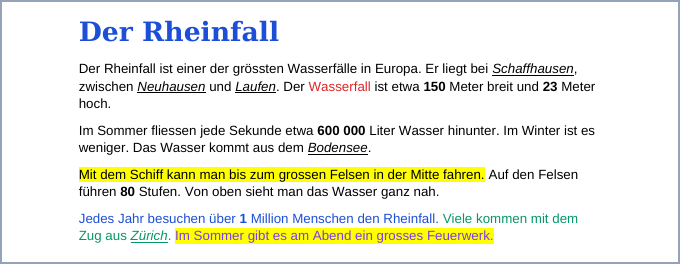
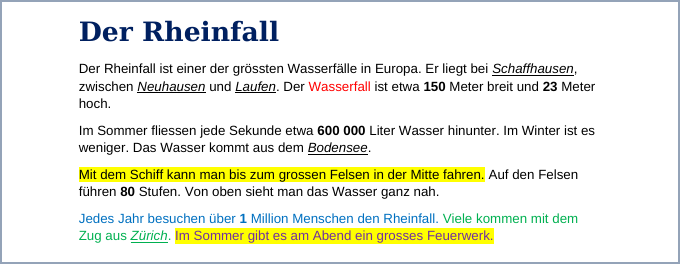
Word-Führerschein: Schriftart und Farben immer genau angegeben
Claude-Session: https://claude.ai/code/session_01DxcwozY8YnNsB45PjCnVcF

diff --git a/Informatik Word-Fuehrerschein.html b/Informatik Word-Fuehrerschein.html
@@ -464,11 +464,11 @@
           help: [DL_HELP, REN_HELP, APP_HELP, ABG_HELP],
           proof: 'In «Aufgabenbearbeitung › MI › Word» liegt «Informatik_Rheinfall». Sie ist in der Word-App offen.' },
         { id: 'w1_m2', st: 3, nr: ['W1.2'], type: 'mission', q: 'Mission W1.2: Titel und Zahlen',
-          steps: ['Titel «Der Rheinfall»: <b>andere Schriftart</b>, Grösse <b>24</b>, <b>fett</b>.', 'Im Text hat es <b>5 Zahlen</b>. Mach alle 5 <b>fett</b> (Doppelklick auf die Zahl, dann F).', 'Hebe den Satz «Mit dem Schiff …» <b>gelb</b> hervor (Textmarker ab).', 'Hebe auch den letzten Satz «Im Sommer gibt es … Feuerwerk.» <b>gelb</b> hervor.', 'Speichere mit <b>Ctrl + S</b>.'],
+          steps: ['Titel «Der Rheinfall»: Schriftart <b>Georgia</b>, Grösse <b>24</b>, <b>fett</b>.', 'Im Text hat es <b>5 Zahlen</b>. Mach alle 5 <b>fett</b> (Doppelklick auf die Zahl, dann F).', 'Hebe den Satz «Mit dem Schiff …» <b>gelb</b> hervor (Textmarker ab).', 'Hebe auch den letzten Satz «Im Sommer gibt es … Feuerwerk.» <b>gelb</b> hervor.', 'Speichere mit <b>Ctrl + S</b>.'],
           help: ['Einen ganzen Satz markieren: Maus vor das erste Wort, gedrückt halten, bis zum Punkt ziehen.', 'Falsch gemacht? Ctrl + Z macht den letzten Schritt rückgängig.', 'Die 5 Zahlen: 150, 23, 600 000, 80, 1.'],
           proof: 'Titel gross und fett, 5 Zahlen fett, 2 Sätze gelb.' },
         { id: 'w1_m3', st: 3, nr: ['W1.3'], type: 'mission', q: 'Mission W1.3: Nochmals, im gleichen Text',
-          steps: ['Im Text hat es <b>5 Ortsnamen</b>: Schaffhausen, Neuhausen, Laufen, Bodensee, Zürich. Mach alle 5 <b>kursiv</b> und <b>unterstrichen</b>.', 'Gib dem Titel eine <b>Farbe</b>.', 'Der letzte Abschnitt beginnt mit «Jedes Jahr …». Gib dort <b>jedem der 3 Sätze</b> eine <b>andere Schriftfarbe</b>.', 'Mach im ersten Abschnitt das Wort «Wasserfall» <b>rot</b>.', ...FERTIG('Rheinfall')],
+          steps: ['Im Text hat es <b>5 Ortsnamen</b>: Schaffhausen, Neuhausen, Laufen, Bodensee, Zürich. Mach alle 5 <b>kursiv</b> und <b>unterstrichen</b>.', 'Gib dem Titel die Farbe <b>Dunkelblau</b>.', 'Der letzte Abschnitt beginnt mit «Jedes Jahr …». Gib dort dem 1. Satz die Farbe <b>Blau</b>, dem 2. <b>Grün</b> und dem 3. <b>Lila</b>.', 'Mach im ersten Abschnitt das Wort «Wasserfall» in der Farbe <b>Rot</b>.', ...FERTIG('Rheinfall')],
           help: [ABG_HELP, 'Vergessen, wie es geht? Tippe auf «📖 Kurz erklärt».', 'Word nicht mehr offen? Teams › Aufgabenbearbeitung › MI › Word › ⋯ › In App öffnen.'],
           proof: 'Orte kursiv und unterstrichen, Titel farbig, letzter Abschnitt bunt, «Wasserfall» rot. Die Datei ist in «Abgabe».' }
       ],
@@ -508,7 +508,7 @@
         { id: 'w2_gap', ex: 'liste', st: 2, nr: ['W2.3'], type: 'gap', text: 'Eine Liste mit 1. 2. 3. heisst ___.',
           a: ['Nummerierung', 'Nummerieren', 'nummerierte Liste'], tip: 'Es kommt von «Nummer».', why: 'Nummerierung.' },
         { id: 'w2_m1', st: 3, nr: ['W2.1'], type: 'mission', q: 'Mission W2.1: Aufwärmen', link: F('W2_Rezept'), linkText: '📥 Keine Mail? Datei hier holen',
-          steps: [...DL('W2_Rezept', 'Rezept'), 'Titel «Schoggikuchen»: <b>andere Schriftart</b>, Grösse <b>26</b>, <b>fett</b>, eine <b>Farbe</b>.', 'Mach «180 Grad», «25 Minuten» und «10 Minuten» <b>fett</b>. Hebe «Achtung, heiss!» <b>gelb</b> hervor. Ctrl + S.'],
+          steps: [...DL('W2_Rezept', 'Rezept'), 'Titel «Schoggikuchen»: Schriftart <b>Comic Sans MS</b>, Grösse <b>26</b>, <b>fett</b>, Farbe <b>Dunkelrot</b>.', 'Mach «180 Grad», «25 Minuten» und «10 Minuten» <b>fett</b>. Hebe «Achtung, heiss!» <b>gelb</b> hervor. Ctrl + S.'],
           help: [DL_HELP, REN_HELP, APP_HELP, AUF_HELP],
           proof: '«Informatik_Rezept» liegt in MI › Word. Titel gestaltet, 3 Stellen fett, eine gelb.' },
         { id: 'w2_m2', st: 3, nr: ['W2.2'], type: 'mission', q: 'Mission W2.2: Ausrichten und Zeilenabstand',
@@ -520,7 +520,7 @@
           help: ['Die Knöpfe für Listen sind im Reiter Start, links oben in der Gruppe «Absatz».', 'Nur die Zeilen markieren, die in die Liste gehören, nicht den Abschnitt darüber.'],
           proof: 'Zutaten und Verzieren mit Punkten, Schritte mit 1. bis 6.' },
         { id: 'w2_m4', st: 3, nr: ['W2.4'], type: 'mission', q: 'Mission W2.4: Nochmals, im gleichen Rezept',
-          steps: ['Das Rezept hat <b>4 Zwischentitel</b>: Zutaten, So geht’s, Tipp, Verzieren. Mach «Zutaten» <b>fett, blau, Grösse 16</b>.', 'Klicke in «Zutaten». <b>Doppelklick</b> auf den <b>Pinsel</b> und fahr über «So geht’s», «Tipp» und «Verzieren». Dann Esc.', 'Unter «Tipp» stehen <b>3 Schritte</b> (von «Den Kuchen aus dem Ofen …» bis «In 8 Stücke schneiden.»). Mach daraus eine <b>Nummerierung</b>.', 'Ganz unten steht «En Guete!». Mach es <b>zentriert</b>, Grösse <b>20</b> und <b>fett</b>.', ...FERTIG('Rezept')],
+          steps: ['Das Rezept hat <b>4 Zwischentitel</b>: Zutaten, So geht’s, Tipp, Verzieren. Mach «Zutaten» <b>fett</b>, Farbe <b>Blau</b>, Grösse <b>16</b>.', 'Klicke in «Zutaten». <b>Doppelklick</b> auf den <b>Pinsel</b> und fahr über «So geht’s», «Tipp» und «Verzieren». Dann Esc.', 'Unter «Tipp» stehen <b>3 Schritte</b> (von «Den Kuchen aus dem Ofen …» bis «In 8 Stücke schneiden.»). Mach daraus eine <b>Nummerierung</b>.', 'Ganz unten steht «En Guete!». Mach es <b>zentriert</b>, Grösse <b>20</b> und <b>fett</b>.', ...FERTIG('Rezept')],
           help: [ABG_HELP, AUF_HELP, 'Pinsel nicht gefunden? Reiter Start, ganz links, unter «Einfügen».'],
           proof: '4 Zwischentitel gleich, Tipp mit 1. 2. 3., «En Guete!» in der Mitte. Die Datei ist in «Abgabe».' }
       ],
@@ -616,7 +616,7 @@
         { id: 'w4_gap', ex: 'sprache', st: 2, nr: ['W4.3'], type: 'gap', text: 'Rechtschreibung, Sprache und Wörter zählen findest du im Reiter ___.',
           a: ['Überprüfen', 'Ueberpruefen', 'Uberprufen'], tip: 'Es beginnt mit Ü. Du prüfst deinen Text.', why: 'Reiter «Überprüfen».' },
         { id: 'w4_m1', st: 3, nr: ['W4.1'], type: 'mission', q: 'Mission W4.1: Aufwärmen', link: F('W4_Einladung'), linkText: '📥 Keine Mail? Datei hier holen',
-          steps: [...DL('W4_Einladung', 'Einladung'), 'Titel «Einladung zum Klassenfest»: Formatvorlage <b>Titel</b>, <b>zentriert</b>. Mach «12. Juni» <b>fett und rot</b>.', 'Mach aus den 3 Zeilen unter «Programm:» eine <b>Aufzählung</b>. Ganzer Text: <b>Zeilenabstand 1,5</b>. Ctrl + S.'],
+          steps: [...DL('W4_Einladung', 'Einladung'), 'Titel «Einladung zum Klassenfest»: Formatvorlage <b>Titel</b>, <b>zentriert</b>. Mach «12. Juni» <b>fett</b> und Farbe <b>Rot</b>.', 'Mach aus den 3 Zeilen unter «Programm:» eine <b>Aufzählung</b>. Ganzer Text: <b>Zeilenabstand 1,5</b>. Ctrl + S.'],
           help: [DL_HELP, REN_HELP, APP_HELP, AUF_HELP],
           proof: '«Informatik_Einladung» liegt in MI › Word. Titel in der Mitte, Datum fett und rot, Programm mit Punkten.' },
         { id: 'w4_m2', st: 3, nr: ['W4.2'], type: 'mission', q: 'Mission W4.2: Ersetzen und verschieben',
@@ -680,7 +680,7 @@
           help: ['Das Bild lässt sich nicht schieben? Dann ist es noch «Mit Text in Zeile». Layoutoptionen ändern.', 'Bild hinter dem Text lässt sich nicht mehr anklicken? Ctrl + Z.'],
           proof: 'Igel rechts mit Text daneben, Apfel frei neben dem Titel.' },
         { id: 'w5_m4', st: 3, nr: ['W5.4'], type: 'mission', q: 'Mission W5.4: Nochmals, im gleichen Text',
-          steps: ['Klicke an den Anfang des Abschnitts «Im Herbst frisst …». Füge ein Bild von <b>Laub</b> (Blättern) ein.', 'An einer <b>Ecke</b> kleiner ziehen. Layoutoptionen › <b>Quadratisch</b>. Schieb es an den <b>linken</b> Rand.', 'Füge ein kleines Bild von einem <b>Wurm</b> ein: <b>Vor den Text</b>, schieb es frei neben den letzten Abschnitt «So hilfst du …».', 'Mach den Titel «Der Igel» <b>zentriert</b> und <b>braun</b>.', ...FERTIG('Igel')],
+          steps: ['Klicke an den Anfang des Abschnitts «Im Herbst frisst …». Füge ein Bild von <b>Laub</b> (Blättern) ein.', 'An einer <b>Ecke</b> kleiner ziehen. Layoutoptionen › <b>Quadratisch</b>. Schieb es an den <b>linken</b> Rand.', 'Füge ein kleines Bild von einem <b>Wurm</b> ein: <b>Vor den Text</b>, schieb es frei neben den letzten Abschnitt «So hilfst du …».', 'Mach den Titel «Der Igel» <b>zentriert</b> und Farbe <b>Orange</b>.', ...FERTIG('Igel')],
           help: [ABG_HELP, AUF_HELP, 'Bild springt herum? Ctrl + Z und nochmals in Ruhe ziehen.'],
           proof: 'Igel rechts, Laub links, Apfel beim Titel, Wurm unten frei, Titel in der Mitte. Die Datei ist in «Abgabe».' }
       ],
@@ -728,11 +728,11 @@
           help: ['Spalten = nebeneinander, Zeilen = untereinander.', 'Kein Tier im Kopf? Igel, Fuchs, Biber, Murmeltier.'],
           proof: 'Die Tabelle hat 3 Spalten, eine fette erste Zeile und 3 Tiere.' },
         { id: 'w6_m3', st: 3, nr: ['W6.3'], type: 'mission', q: 'Mission W6.3: Tabelle verbessern',
-          steps: ['Klicke in die letzte Zelle, drück <b>Tab</b>: neue Zeile. Füge ein <b>4. Tier</b> dazu.', 'Rechtsklick in die Spalte «Was es frisst» › Einfügen › <b>Spalten rechts</b>. Titel: <b>Wie gross</b>. Ausfüllen.', 'Zieh die <b>Linie</b> zwischen zwei Spalten, damit alles schön Platz hat.', 'Markiere die erste Zeile › <b>Tabellenentwurf › Schattierung</b> › eine helle Farbe. Ctrl + S.'],
+          steps: ['Klicke in die letzte Zelle, drück <b>Tab</b>: neue Zeile. Füge ein <b>4. Tier</b> dazu.', 'Rechtsklick in die Spalte «Was es frisst» › Einfügen › <b>Spalten rechts</b>. Titel: <b>Wie gross</b>. Ausfüllen.', 'Zieh die <b>Linie</b> zwischen zwei Spalten, damit alles schön Platz hat.', 'Markiere die erste Zeile › <b>Tabellenentwurf › Schattierung</b> › ein <b>helles Blau</b>. Ctrl + S.'],
           help: ['Kein Reiter «Tabellenentwurf»? Klicke zuerst in die Tabelle.', 'Falsch eingefügt? Ctrl + Z.'],
           proof: '4 Tiere, 4 Spalten, erste Zeile farbig.' },
         { id: 'w6_m4', st: 3, nr: ['W6.4'], type: 'mission', q: 'Mission W6.4: Nochmals, im gleichen Dokument',
-          steps: ['Ganz unten steht «Wann sieht man sie?». Klicke in die leere Zeile darunter.', '<b>Einfügen › Tabelle</b>: <b>5 Spalten</b>, 3 Zeilen. Erste Zeile: Tier · Frühling · Sommer · Herbst · Winter.', 'Fülle 2 Tiere aus deiner ersten Tabelle aus: ✓ = man sieht es, – = man sieht es nicht. Füge mit <b>Rechtsklick › Einfügen</b> eine Zeile für ein 3. Tier dazu.', 'Spalte «Tier» breiter ziehen. Erste Zeile <b>fett</b> mit <b>Schattierung</b>.', ...FERTIG('Tiere')],
+          steps: ['Ganz unten steht «Wann sieht man sie?». Klicke in die leere Zeile darunter.', '<b>Einfügen › Tabelle</b>: <b>5 Spalten</b>, 3 Zeilen. Erste Zeile: Tier · Frühling · Sommer · Herbst · Winter.', 'Fülle 2 Tiere aus deiner ersten Tabelle aus: ✓ = man sieht es, – = man sieht es nicht. Füge mit <b>Rechtsklick › Einfügen</b> eine Zeile für ein 3. Tier dazu.', 'Spalte «Tier» breiter ziehen. Erste Zeile <b>fett</b>, Schattierung <b>helles Gelb</b>.', ...FERTIG('Tiere')],
           help: [ABG_HELP, AUF_HELP, 'Nicht sicher? Igel und Murmeltier schlafen im Winter. Fuchs und Eichhörnchen sieht man das ganze Jahr.'],
           proof: 'Zwei Tabellen. Die zweite hat 5 Spalten, eine farbige erste Zeile und 3 Tiere. Die Datei ist in «Abgabe».' }
       ],
@@ -784,7 +784,7 @@
         { id: 'w7_gap', ex: 'kopf', st: 2, nr: ['W7.2'], type: 'gap', text: 'Die Seitenzahl steht unten auf der Seite in der ___.',
           a: ['Fusszeile', 'Fußzeile', 'Fusszeilen'], tip: 'Oben ist die Kopfzeile. Und unten, bei den Füssen?', why: 'In der Fusszeile.' },
         { id: 'w7_m1', st: 3, nr: ['W7.1'], type: 'mission', q: 'Mission W7.1: Aufwärmen', link: F('W7_Projekt'), linkText: '📥 Keine Mail? Datei hier holen',
-          steps: [...DL('W7_Projekt', 'Projektarbeit'), 'Mach den Titel «Unser Klassenlager» <b>zentriert</b> und gib ihm eine <b>Farbe</b>.', 'Klicke an den Anfang der Einleitung. Füge ein <b>Bild</b> ein (z.B. Berge): kleiner ziehen, <b>Quadratisch</b>, rechts.', 'Ctrl + A: <b>Zeilenabstand 1,5</b>. Ctrl + S.'],
+          steps: [...DL('W7_Projekt', 'Projektarbeit'), 'Mach den Titel «Unser Klassenlager» <b>zentriert</b> und Farbe <b>Lila</b>.', 'Klicke an den Anfang der Einleitung. Füge ein <b>Bild</b> ein (z.B. Berge): kleiner ziehen, <b>Quadratisch</b>, rechts.', 'Ctrl + A: <b>Zeilenabstand 1,5</b>. Ctrl + S.'],
           help: [DL_HELP, REN_HELP, APP_HELP, AUF_HELP],
           proof: '«Informatik_Projektarbeit» liegt in MI › Word. Titel in der Mitte und farbig, ein Bild mit Text daneben.' },
         { id: 'w7_m2', st: 3, nr: ['W7.2'], type: 'mission', q: 'Mission W7.2: Kopfzeile, Seitenzahl, neue Seite',
